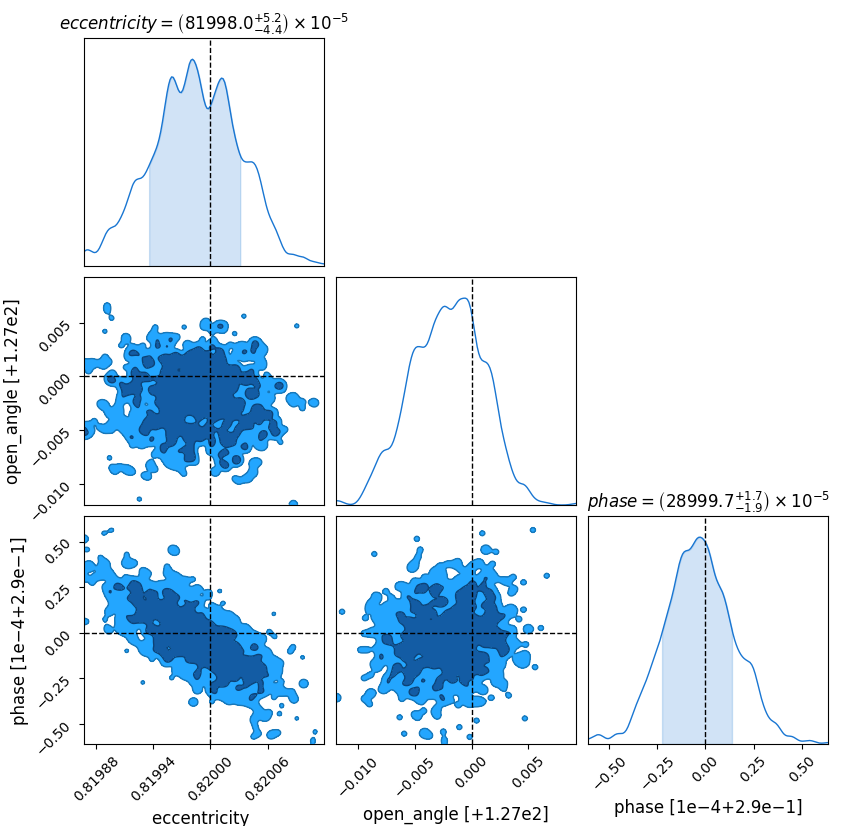
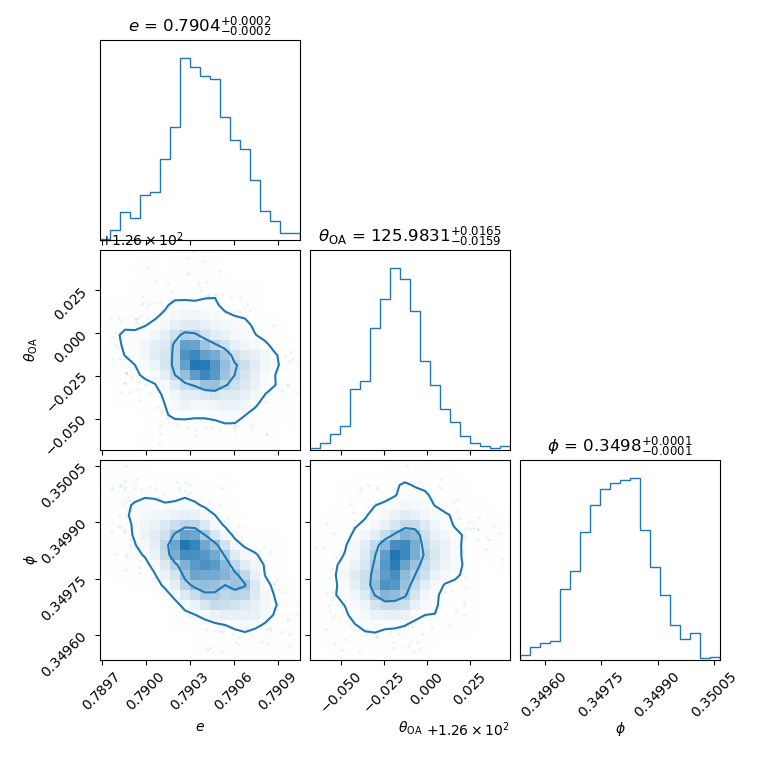
Corner plotting file

Changed region(s): [[0.0, 0.0, 0.9684, 0.9987], [0.0303, 0.6053, 0.0605, 0.6355]]

diff --git a/Apep_HPC_Plot.py b/Apep_HPC_Plot.py
@@ -1,0 +1,50 @@
+# -*- coding: utf-8 -*-
+"""
+Created on Mon Oct 28 12:10:05 2024
+
+@author: ryanw
+"""
+
+import pickle
+import corner
+import matplotlib.pyplot as plt
+import numpy as np
+# import pairplots
+
+sim_run_2 = 'HPC/sim_run_2/173006267427540800_flat'
+
+use_run = sim_run_2
+
+with open(use_run, 'rb') as file:
+    data = pickle.load(file)
+    
+param_labels = {"eccentricity":r"$e$",
+          "open_angle":r"$\theta_{\rm OA}$",
+          "phase":r"$\phi$"}
+
+labels = [param_labels[label] for label in data.keys()]
+
+# pairplots.pairplot(data)
+
+corner.corner(data, 
+              labels=labels,
+              show_titles=True,
+              smooth=0.8,
+              title_fmt=".4f",
+              color='tab:blue',
+              use_math_text=True,
+              levels=[0.393, 0.864],
+              fill_contours=False)
+              # quantiles=[0.16, 0.5, 0.84])
+
+ndim = len(data.keys())
+params = list(data.keys())
+
+fig, axes = plt.subplots(nrows=ndim, sharex=True, gridspec_kw={'hspace':0})
+
+for i in range(ndim):
+    param_vals = data[params[i]]
+    axes[i].scatter(np.arange(len(param_vals)), param_vals, s=1)
+    axes[i].set(ylabel=param_labels[params[i]])
+
+
